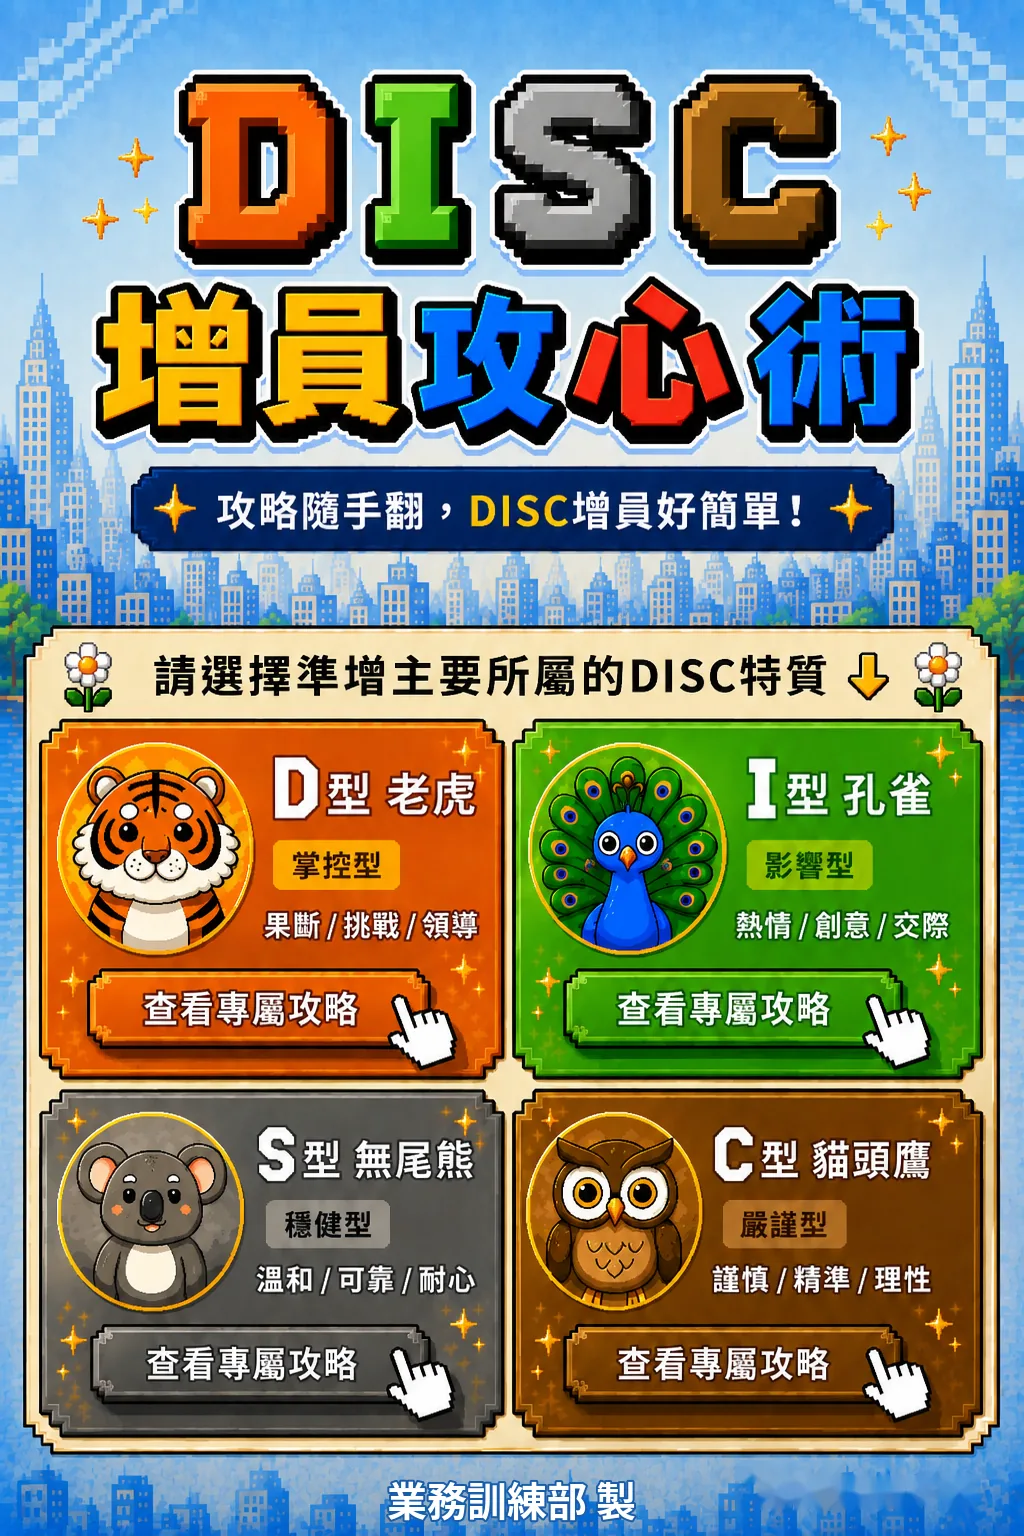
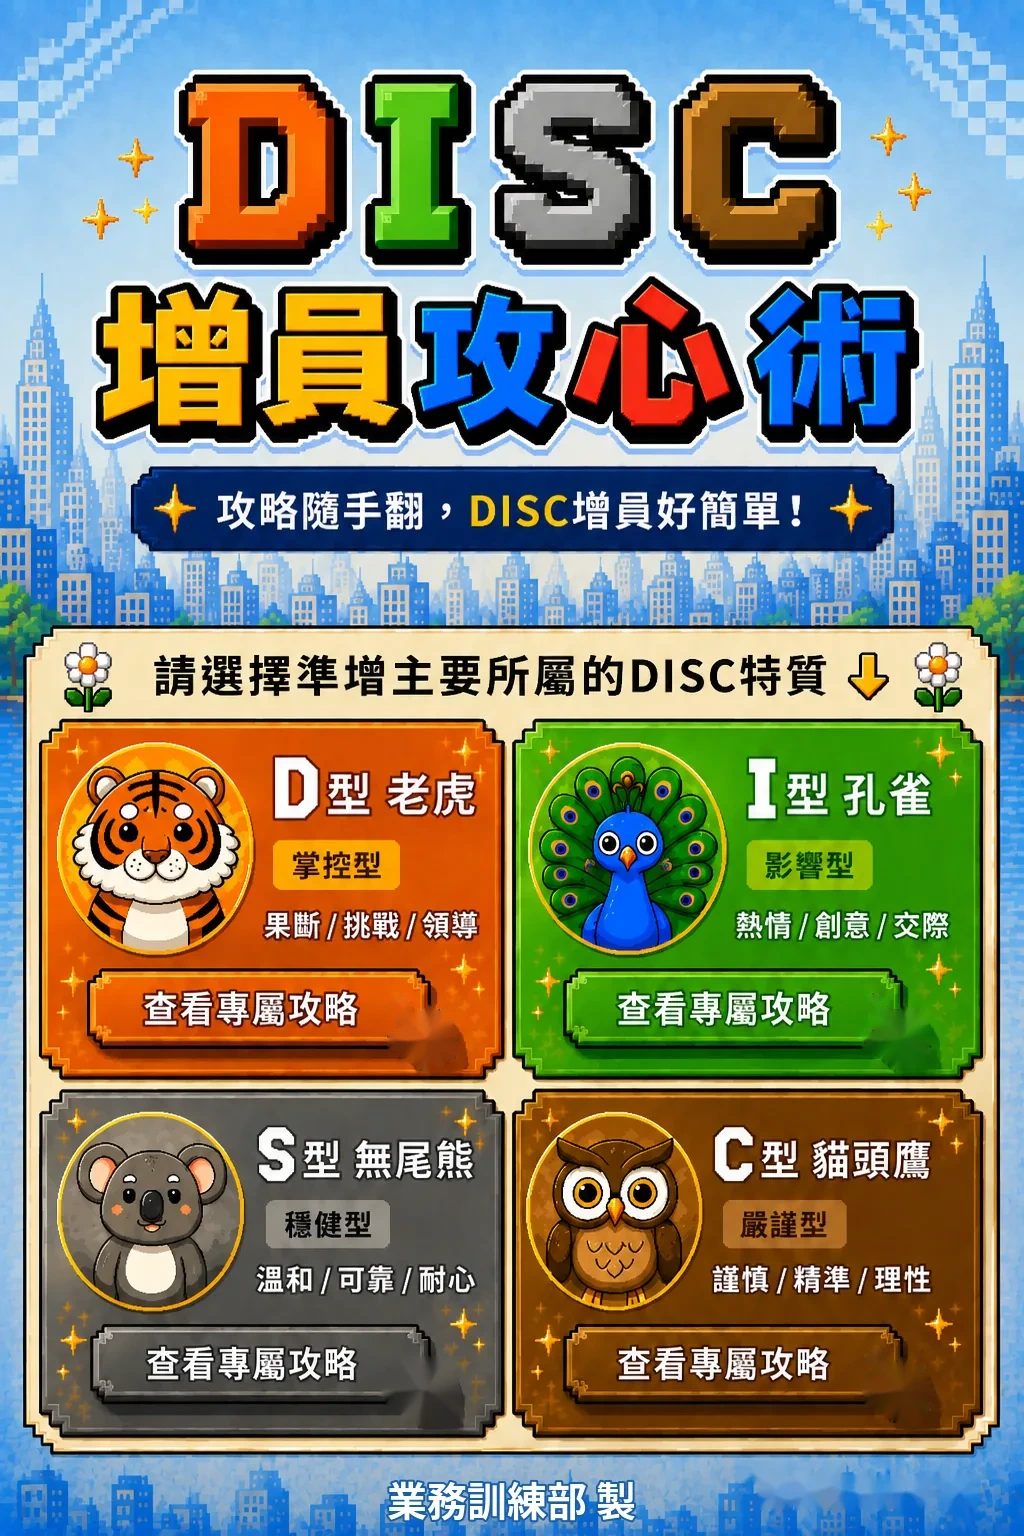
Add files via upload

diff --git a/style.css b/style.css
@@ -67,25 +67,39 @@ body{
 .loading span{width:32px;height:32px;border:3px solid rgba(255,255,255,.4);border-top-color:#fff;border-radius:50%;animation:spin .7s linear infinite}
 @keyframes spin{to{transform:rotate(360deg)}}
 
-/* 首頁四個「手指」縮放提示。使用原首頁手指裁切素材，避免把整張卡片一起放大。 */
-.finger-overlays{position:absolute;inset:0;z-index:7;pointer-events:none;display:none}
-.stage.home-motion .finger-overlays{display:block}
-.finger{
+/* 首頁四個手指：使用獨立透明 PNG/WebP 疊圖，四隻共用同一條動畫時間軸。 */
+.finger-overlays{
   position:absolute;
-  background-repeat:no-repeat;
-  background-size:100% 100%;
-  transform-origin:center center;
-  animation:fingerPulse 1.55s ease-in-out infinite;
-  will-change:transform,filter;
-  filter:drop-shadow(0 2px 2px rgba(0,0,0,.22));
+  inset:0;
+  z-index:7;
+  pointer-events:none;
+  display:none;
+  overflow:visible;
 }
-.finger.tiger{left:37.50%;top:64.45%;width:7.52%;height:5.40%;background-image:url('../assets/finger_tiger.webp?v=5')}
-.finger.peacock{left:83.79%;top:64.52%;width:7.62%;height:5.40%;background-image:url('../assets/finger_peacock.webp?v=5')}
-.finger.koala{left:36.91%;top:87.11%;width:8.30%;height:7.10%;background-image:url('../assets/finger_koala.webp?v=5')}
-.finger.owl{left:83.79%;top:87.37%;width:7.62%;height:6.84%;background-image:url('../assets/finger_owl.webp?v=5')}
-@keyframes fingerPulse{
-  0%,100%{transform:scale(.92) translateY(0);filter:drop-shadow(0 2px 2px rgba(0,0,0,.20))}
-  50%{transform:scale(1.13) translateY(-1.5%);filter:drop-shadow(0 3px 4px rgba(0,0,0,.30))}
+.stage.home-motion .finger-overlays{display:block}
+.stage.home-motion .finger{
+  position:absolute;
+  display:block !important;
+  object-fit:contain;
+  height:auto;
+  margin:0;
+  padding:0;
+  border:0;
+  opacity:1 !important;
+  visibility:visible !important;
+  transform-origin:50% 50%;
+  animation:fingerPulseHome 1.20s ease-in-out infinite !important;
+  will-change:transform;
+  user-select:none;
+  -webkit-user-drag:none;
+}
+.finger.tiger{left:37.50%;top:64.45%;width:7.52%;height:auto}
+.finger.peacock{left:83.79%;top:64.52%;width:7.62%;height:auto}
+.finger.koala{left:36.91%;top:87.11%;width:8.30%;height:auto}
+.finger.owl{left:83.79%;top:87.37%;width:7.62%;height:auto}
+@keyframes fingerPulseHome{
+  0%,100%{transform:scale(.94);filter:drop-shadow(0 2px 2px rgba(0,0,0,.18))}
+  50%{transform:scale(1.06);filter:drop-shadow(0 3px 3px rgba(0,0,0,.24))}
 }
 
 /* 動物攻略選單頁：只顯示「手指」本體。
@@ -204,23 +218,35 @@ body{
   52%{opacity:.2;transform:scale(.48) rotate(38deg)}
   70%{opacity:0;transform:scale(.22) rotate(55deg)}
 }
-/* 一道短暫的斜向亮光，只在上述標題裁切區內滑過 */
+/* 一道柔和的斜向亮光：改成橢圓光暈，避免掃光結尾出現明顯矩形/尖角邊緣 */
 .sparkle-overlay::before{
   content:"";
   position:absolute;
-  top:-35%; left:-28%;
-  width:16%; height:170%;
-  transform:rotate(24deg) translateX(-260%);
-  background:linear-gradient(90deg,transparent,rgba(255,255,255,.05) 20%,rgba(255,255,255,.95) 50%,rgba(255,255,255,.08) 80%,transparent);
-  filter:blur(1px);
+  top:-55%;
+  left:-32%;
+  width:24%;
+  height:210%;
+  border-radius:50%;
+  transform:rotate(24deg) translateX(-320%);
+  background:radial-gradient(
+    ellipse at center,
+    rgba(255,255,255,.92) 0%,
+    rgba(255,255,255,.58) 18%,
+    rgba(255,255,255,.20) 38%,
+    rgba(255,255,255,.06) 56%,
+    transparent 74%
+  );
+  filter:blur(2.2px);
   mix-blend-mode:screen;
   animation:titleSweep 2.8s ease-in-out infinite;
+  will-change:transform,opacity;
 }
 @keyframes titleSweep{
-  0%,28%{transform:rotate(24deg) translateX(-260%);opacity:0}
-  38%{opacity:1}
-  62%{transform:rotate(24deg) translateX(720%);opacity:1}
-  72%,100%{transform:rotate(24deg) translateX(720%);opacity:0}
+  0%,28%{transform:rotate(24deg) translateX(-320%);opacity:0}
+  36%{opacity:.78}
+  58%{transform:rotate(24deg) translateX(620%);opacity:.78}
+  66%{opacity:0}
+  72%,100%{transform:rotate(24deg) translateX(620%);opacity:0}
 }
 
 /* 頁面切換 */
@@ -245,6 +271,20 @@ body{
   .stage{width:min(100vw,calc(100dvh * 2 / 3));height:min(100dvh,calc(100vw * 3 / 2));max-width:100vw;max-height:100dvh}
 }
 @media (prefers-reduced-motion:reduce){
-  .sparkle,.finger,.page-enter{animation:none!important}
+  .sparkle,.page-enter{animation:none!important}
   .hotspot{transition:none}
+}
+
+/* iPhone / iPad：手指以 2:3 stage 比例定位與縮放，維持在角色框內 */
+@media (max-width: 1024px){
+  .stage.home-motion .finger.tiger{left:43.0%;top:64.0%;width:3.2%;height:auto}
+  .stage.home-motion .finger.peacock{left:88.5%;top:64.0%;width:3.2%;height:auto}
+  .stage.home-motion .finger.koala{left:42.8%;top:86.7%;width:3.25%;height:auto}
+  .stage.home-motion .finger.owl{left:88.5%;top:86.7%;width:3.2%;height:auto}
+}
+@media (max-width: 600px){
+  .stage.home-motion .finger.tiger{left:43.2%;top:64.1%;width:2.75%;height:auto}
+  .stage.home-motion .finger.peacock{left:88.8%;top:64.1%;width:2.75%;height:auto}
+  .stage.home-motion .finger.koala{left:43.0%;top:86.8%;width:2.8%;height:auto}
+  .stage.home-motion .finger.owl{left:88.8%;top:86.8%;width:2.75%;height:auto}
 }

diff --git a/script.js b/script.js
@@ -4,7 +4,7 @@ const HOTSPOTS = document.getElementById('hotspots');
 const STAGE = document.getElementById('stage');
 const LOADING = document.getElementById('loading');
 const MENU_FINGERS = document.getElementById('menuFingerOverlays');
-const FINGER_ASSETS = ['assets/finger_tiger.webp?v=5','assets/finger_peacock.webp?v=5','assets/finger_koala.webp?v=5','assets/finger_owl.webp?v=5'];
+const FINGER_ASSETS = ['assets/finger_tiger.webp?v=14','assets/finger_peacock.webp?v=14','assets/finger_koala.webp?v=14','assets/finger_owl.webp?v=14'];
 const BGM = document.getElementById('bgm');
 const MUSIC = document.getElementById('musicControl');
 let audioReady = false;
@@ -12,7 +12,7 @@ let musicOn = false;
 
 const PAGES = {
   home:{
-    img:'assets/home.webp?v=5',
+    img:'assets/home.webp?v=14',
     alt:'DISC 增員攻心術首頁',
     spots:[
       {label:'進入 D 型老虎攻略',x:2.5,y:46.8,w:47.5,h:22.0,to:'tigerMenu'},
@@ -122,7 +122,7 @@ async function ensureMusic(autoplay=true){
   if(!BGM.src){
     BGM.volume = 0.45;
     BGM.preload = 'auto';
-    BGM.autoplay = false;
+    BGM.autoplay = true;
     BGM.src = MUSIC_SRC;
     BGM.load();
   }
@@ -154,12 +154,13 @@ MUSIC.addEventListener('click',async(e)=>{
   }
 });
 
-// 首頁一進來就顯示音符並嘗試自動播放；若瀏覽器擋有聲 autoplay，
-// 保留音符讓使用者點一下即可播放。
+// 首頁載入立即顯示音符並嘗試自動播放。
+// 注意：Chrome/手機瀏覽器若禁止「有聲自動播放」，瀏覽器本身會擋住 play()；
+// 此時第一次點擊頁面或音符即可立即補播。
 showMusicControl();
+BGM.autoplay = true;
 ensureMusic(true);
 
-// 若瀏覽器首次載入禁止有聲 autoplay，使用者第一次點擊頁面時立即補播。
 document.addEventListener('pointerdown',()=>{
   if(BGM.paused) ensureMusic(true);
 },{once:true,passive:true});
@@ -178,11 +179,12 @@ async function go(id, push=true){
     renderSpots(page);
 
     // 首頁四個角色手指：進入首頁時同時啟動縮放提示；離開首頁立即隱藏。
-    STAGE.classList.toggle('home-motion', id === 'home');
-    if(id === 'home') {
-      const homeFingers = STAGE.querySelectorAll('.finger');
-      homeFingers.forEach(el => el.getAnimations?.().forEach(a => a.cancel()));
+    // 首頁四隻手指完全同步縮放；用移除/重加 class + reflow 重啟 CSS 動畫，
+    // 不呼叫 cancelAnimations，避免瀏覽器留下被取消的動畫狀態。
+    STAGE.classList.remove('home-motion');
+    if(id === 'home'){
       void STAGE.offsetWidth;
+      STAGE.classList.add('home-motion');
     }
 
     const menuMatch = id.match(/^(tiger|peacock|koala|owl)Menu$/);
@@ -191,7 +193,7 @@ async function go(id, push=true){
       const animal = menuMatch[1];
       const fingers = MENU_FINGERS.querySelectorAll('.menu-finger');
       fingers.forEach((el, i) => {
-        el.src = `assets/menu_hand_clean_${i+1}.png?v=10`;
+        el.src = `assets/menu_hand_clean_${i+1}.png?v=14`;
       });
       // 強制重新啟動同一時間點的動畫，讓每次進入攻略頁都三個一起縮放。
       MENU_FINGERS.classList.remove('show');

diff --git a/index.html b/index.html
@@ -5,18 +5,18 @@
 <meta name="viewport" content="width=device-width, initial-scale=1, viewport-fit=cover">
 <meta name="theme-color" content="#0b0b12">
 <title>DISC 增員攻心術</title>
-<link rel="stylesheet" href="css/style.css">
+<link rel="stylesheet" href="css/style.css?v=14">
 </head>
 <body>
 <main id="app" aria-label="DISC 增員攻心術互動網站">
   <section id="stage" class="stage" aria-live="polite">
-    <img id="pageImage" class="page-image" src="assets/home.webp?v=5" alt="DISC 增員攻心術首頁" draggable="false" decoding="async">
+    <img id="pageImage" class="page-image" src="assets/home.webp?v=6" alt="DISC 增員攻心術首頁" draggable="false" decoding="async">
     <div id="hotspots" class="hotspots"></div>
     <div id="fingerOverlays" class="finger-overlays" aria-hidden="true">
-      <span class="finger tiger"></span>
-      <span class="finger peacock"></span>
-      <span class="finger koala"></span>
-      <span class="finger owl"></span>
+      <img class="finger tiger" src="assets/finger_tiger.webp?v=7" alt="" draggable="false">
+      <img class="finger peacock" src="assets/finger_peacock.webp?v=7" alt="" draggable="false">
+      <img class="finger koala" src="assets/finger_koala.webp?v=7" alt="" draggable="false">
+      <img class="finger owl" src="assets/finger_owl.webp?v=7" alt="" draggable="false">
     </div>
     <div id="menuFingerOverlays" class="menu-finger-overlays" aria-hidden="true">
       <img class="menu-finger zone1" alt="" draggable="false">
@@ -28,11 +28,11 @@
       <span class="sparkle s4"></span><span class="sparkle s5"></span><span class="sparkle s6"></span>
       <span class="sparkle s7"></span><span class="sparkle s8"></span>
     </div>
-    <button id="musicControl" class="music-control" type="button" aria-label="背景音樂開關">♫</button>
-    <audio id="bgm" loop preload="none"></audio>
+    <button id="musicControl" class="music-control" type="button" aria-label="關閉背景音樂">♫</button>
+    <audio id="bgm" loop autoplay preload="auto"></audio>
     <div id="loading" class="loading" aria-hidden="true"><span></span></div>
   </section>
 </main>
-<script src="js/script.js" defer></script>
+<script src="js/script.js?v=14" defer></script>
 </body>
 </html>
